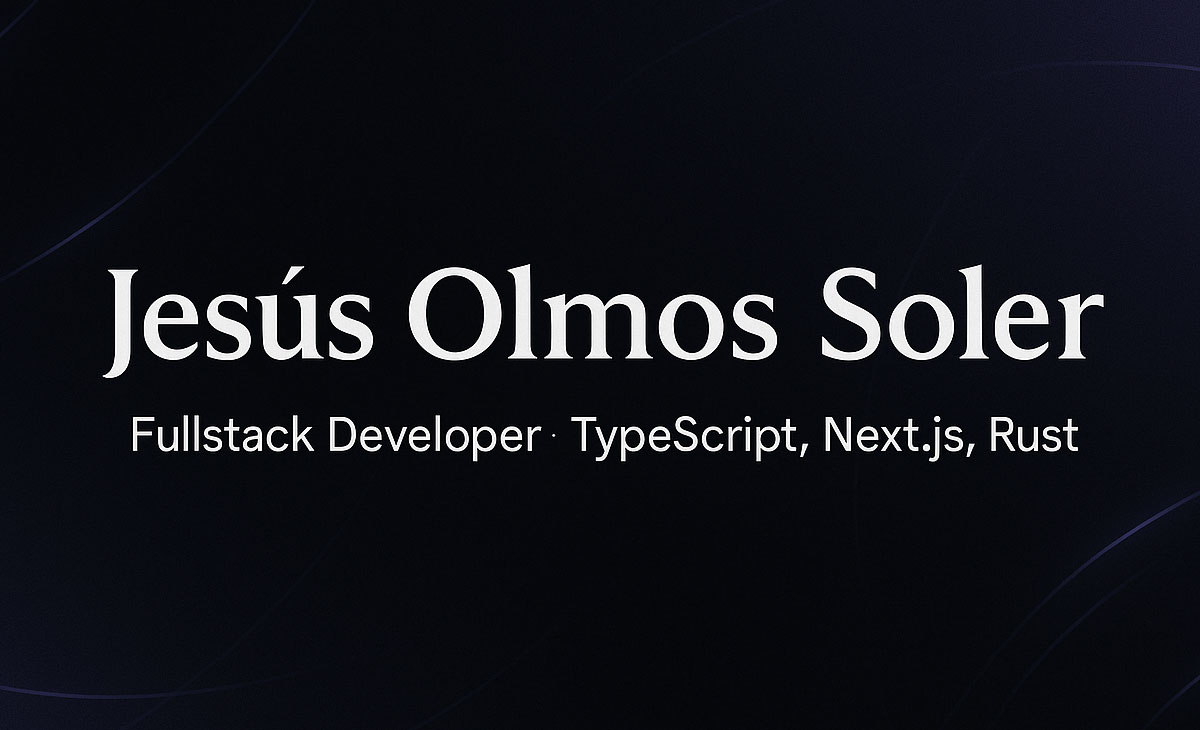
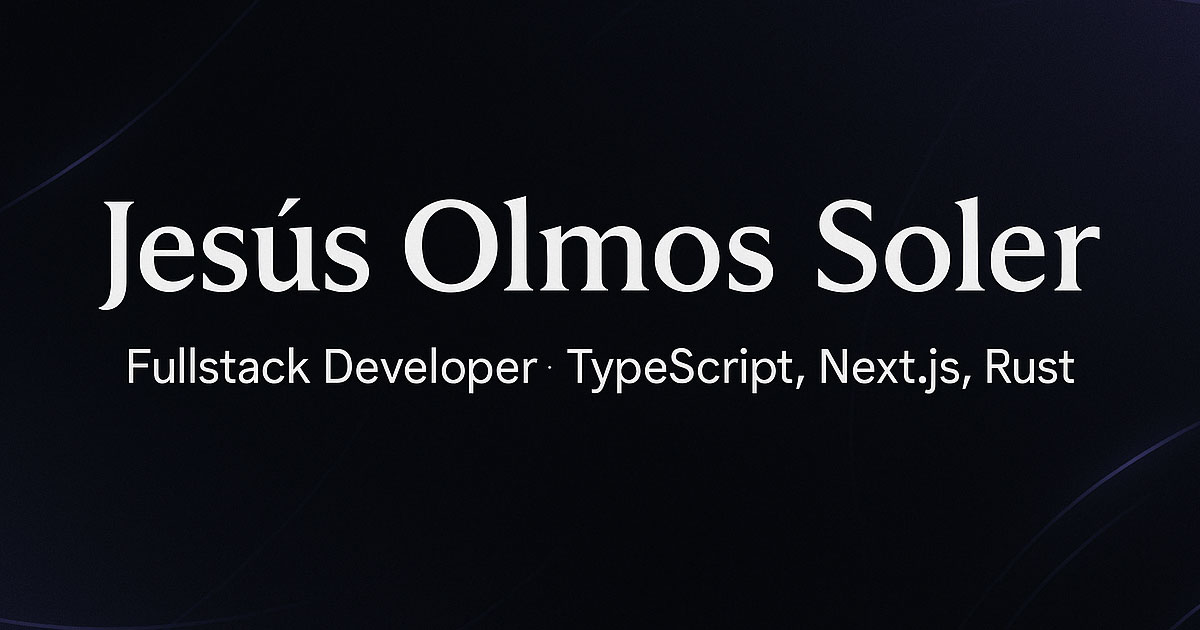
refactor: refactorizaciones menores, og-image actualizada. fix: generateMetadata arreglado.

diff --git a/src/app/[locale]/(sections)/projects/page.tsx b/src/app/[locale]/(sections)/projects/page.tsx
@@ -12,7 +12,7 @@ export default async function ProjectsPage() {
     <div className="grid grid-rows-[20px_1fr_20px] items-center justify-items-center min-h-screen p-8 font-[family-name:var(--font-geist-sans)]">
       <div className="flex flex-col row-start-2 items-center sm:items-start mt-12 lg:mt-38">
         <div>
-          <h1 className="text-center mx-auto text-xl lg:text-4xl w-2/3 bg-transparent mt-8 mb-12 font-bold">
+          <h1 className="text-center mx-auto text-xl lg:text-4xl w-2/3 bg-transparent mt-8 mb-12">
             {p("main")}
             <span className="text-blue-cyan dark:text-blue-cyan">{p("learn")}</span>
             {p("continue")}

diff --git a/src/app/[locale]/layout.tsx b/src/app/[locale]/layout.tsx
@@ -31,9 +31,9 @@ const inter = Inter({
 
 export const locales = ["es", "en", "de"];
 
-export async function generateMetadata({ params, }: { params: { locale: string }; }): Promise<Metadata> {
+export async function generateMetadata({ params, }: { params: Promise<{ locale: string }>; }): Promise<Metadata> {
 
-  const locale = params.locale;
+  const { locale } = await params;
   const t = await getTranslations({ locale, namespace: "Metadata" });
   const baseUrl = process.env.NEXT_PUBLIC_BACKEND_URL!;
 

diff --git a/src/app/api/articlesFeed/users/[id]/route.ts b/src/app/api/articlesFeed/users/[id]/route.ts
@@ -5,10 +5,7 @@ import { users } from "@/db/drizzle/schema";
 import { eq } from "drizzle-orm";
 import { NextRequest, NextResponse } from "next/server";
 
-export async function GET(
-  req: NextRequest,
-  { params }: { params: Promise<{ id: string }> }
-) {
+export async function GET(req: NextRequest, { params }: { params: Promise<{ id: string }> }) {
 
   const { id } = await params;
   const userId = Number(id);

diff --git a/src/components/dashboard/dashboard-sections/NewArticle.tsx b/src/components/dashboard/dashboard-sections/NewArticle.tsx
@@ -20,12 +20,7 @@ export const NewArticle = () => {
     },
   });
 
-  const {
-    register,
-    handleSubmit,
-    formState: { errors },
-    reset,
-  } = form;
+  const { register, handleSubmit, formState: { errors }, reset, } = form;
 
   const onSubmit = async (values: z.infer<typeof articleRequestSchema>) => {
     try {

diff --git a/src/components/auth/AuthGuardAdmin.tsx b/src/components/auth/AuthGuardAdmin.tsx
@@ -7,6 +7,7 @@ import { useLocale } from "next-intl";
 import { usePathname } from "@/i18n/navigation";
 
 export const AuthGuardAdmin = ({ children }: { children: React.ReactNode }) => {
+  
   const { data: session, status } = useSession();
   const router = useRouter();
   const locale = useLocale();
